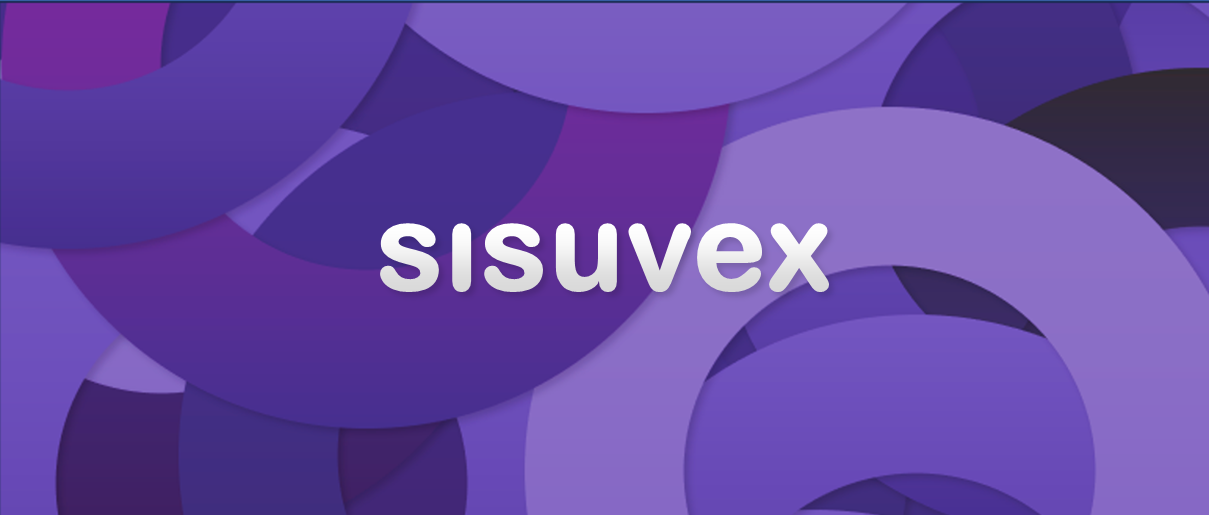
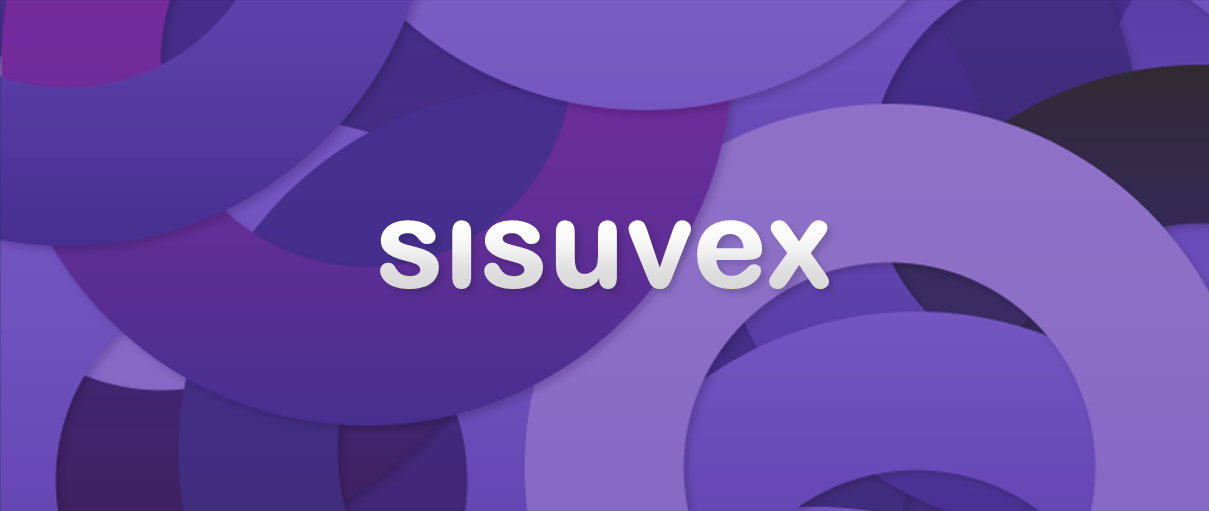
UVEX: Se agregó la actualización del PaymenPlace

diff --git a/SisUvex/Nomina/Actualizar empleados/FrmActualizarEmpleados.cs b/SisUvex/Nomina/Actualizar empleados/FrmActualizarEmpleados.cs
@@ -1,4 +1,5 @@
-using System;
+using SisUvex.Catalogos.Metods.Querys;
+using System;
 using System.Collections.Generic;
 using System.ComponentModel;
 using System.Data;
@@ -20,28 +21,15 @@ namespace SisUvex.Nomina.Actualizar_empleados
 
         private void button1_Click(object sender, EventArgs e)
         {
-            SQLControl sql = new SQLControl();
-
-                try
+            if (ClsQuerysDB.ExecuteQuery("sp_Nom_EmployeesSinc"))
+                if (ClsQuerysDB.ExecuteQuery("sp_Nom_PlacePayment"))
                 {
-                    sql.OpenConectionWrite();
-                    SqlCommand cmd = new SqlCommand("sp_Nom_EmployeesSinc", sql.cnn);
-                    cmd.CommandType = CommandType.StoredProcedure;
-
-                    cmd.ExecuteNonQuery();
-
-                    MessageBox.Show("Se ha actualizado la tabla de empleados.", "Actualizar Empleados");
-                }
-                catch (Exception ex)
-                {
-                    MessageBox.Show(ex.ToString(), "Actualizar empleados");
+                    MessageBox.Show("Se han actualizado los datos de los empleados exitosamente.");
+                    this.Close();
+                    return;
                 }
 
-                finally
-                {
-                    sql.CloseConectionWrite();
-                }
-            
+            MessageBox.Show("Error al actualizar los datos de los empleados.");
         }
     }
 }

diff --git a/SisUvex/Nomina/Actualizar empleados/FrmActualizarEmpleados.Designer.cs b/SisUvex/Nomina/Actualizar empleados/FrmActualizarEmpleados.Designer.cs
@@ -34,7 +34,7 @@
             // 
             // btnActualizar
             // 
-            btnActualizar.Location = new Point(183, 14);
+            btnActualizar.Location = new Point(205, 14);
             btnActualizar.Name = "btnActualizar";
             btnActualizar.Size = new Size(68, 23);
             btnActualizar.TabIndex = 0;
@@ -56,7 +56,7 @@
             AcceptButton = btnActualizar;
             AutoScaleDimensions = new SizeF(7F, 15F);
             AutoScaleMode = AutoScaleMode.Font;
-            ClientSize = new Size(261, 49);
+            ClientSize = new Size(285, 49);
             Controls.Add(lblTexto);
             Controls.Add(btnActualizar);
             FormBorderStyle = FormBorderStyle.FixedSingle;

diff --git a/SisUvex/Inicio/PantallaCarga.Designer.cs b/SisUvex/Inicio/PantallaCarga.Designer.cs
@@ -55,7 +55,7 @@
             AutoScaleDimensions = new SizeF(7F, 15F);
             AutoScaleMode = AutoScaleMode.Font;
             BackColor = Color.FromArgb(64, 64, 64);
-            BackgroundImage = Properties.Resources.Pantalla_de_carga_verde;
+            BackgroundImage = Properties.Resources.screenload1;
             BackgroundImageLayout = ImageLayout.Stretch;
             ClientSize = new Size(714, 315);
             Controls.Add(lblCadenaConexion);

diff --git a/SisUvex/Inicio/PantallaCarga.cs b/SisUvex/Inicio/PantallaCarga.cs
@@ -1,18 +1,6 @@
 using System;
 using System.Collections.Generic;
-using System.ComponentModel;
-using System.Data;
-using System.Drawing;
-using System.Linq;
-using System.Text;
-using System.Threading.Tasks;
-using System.Windows.Forms;
-using System.Data.SqlClient;
-using Azure;
-using Microsoft.VisualBasic.Logging;
-using SisUvex.Usuarios;
 using SisUvex.Configuracion;
-using SisUvex.Archivo.Manifiesto;
 
 namespace SisUvex.Inicio
 {
